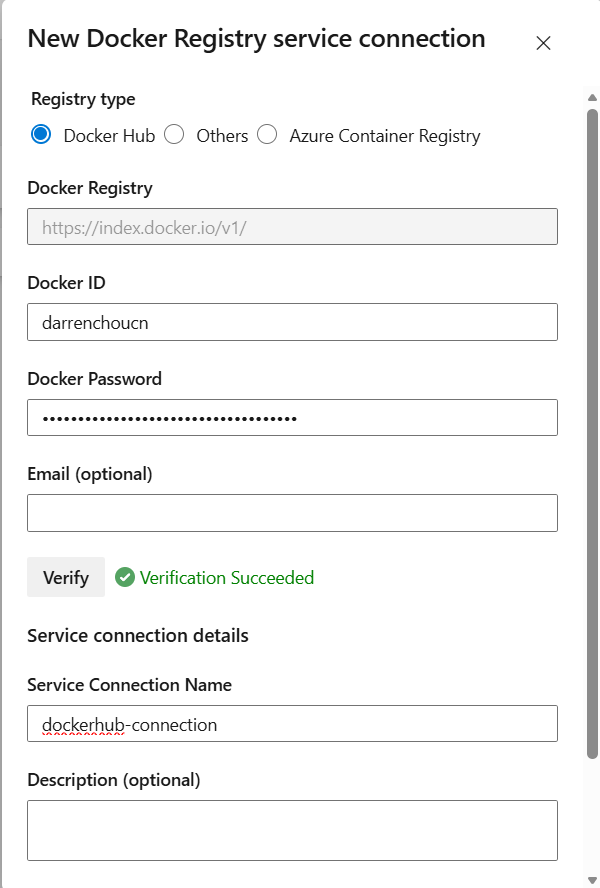
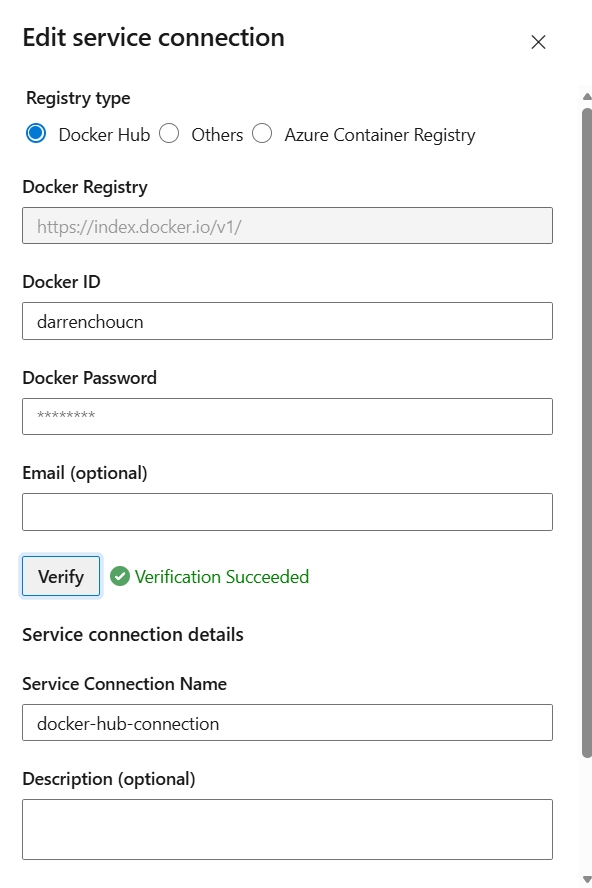
Creating a CI/CD pipeline for Azure Container Apps

diff --git a/azure/01-container-apps-cicd/README.md b/azure/01-container-apps-cicd/README.md
@@ -49,12 +49,88 @@ az ad sp create-for-rbac \
 echo "Saved credentials to: spn-aca-ado.json"
 ```
 
-#### 4. Configure Pipelines
+#### 4. Create Service Connection
 
 _ADO -> Your Project -> Project Settings -> Pipelines -> Service connections -> Create service connection_
 
 **Azure Connection**
+
 ![](images/azure-connection.png)
 
 **Docker Hub Connection**
+
 ![](images/docker-hub-connection.png)
+
+#### 5. Configure Pipelines
+
+```yaml
+trigger:
+  - main
+
+resources:
+  - repo: self
+
+variables:
+  IMAGE_NAME: "darrenchoucn/aca-album-backend-api"
+  CONTAINERAPPS_APP: "ca-cicd-lab-api-dev-ase-001"
+  CONTAINERAPPS_ENVIRONMENT: "acae-cicd-lab-dev-ase-001"
+  RESOURCE_GROUP: "rg-cicd-lab-dev-ase-001"
+  TAG: "$(Build.BuildId)"
+
+stages:
+  - stage: Build
+    displayName: Build and push image
+    jobs:
+      - job: Build
+        displayName: Build
+        pool:
+          vmImage: ubuntu-latest
+        steps:
+          - script: |
+              echo "Sources dir: $(Build.SourcesDirectory)"
+              ls -la $(Build.SourcesDirectory)
+              echo "Find Dockerfile:"
+              find $(Build.SourcesDirectory) -maxdepth 6 -type f -iname "dockerfile" -print
+            displayName: "Debug: locate Dockerfile"
+
+          - task: Docker@2
+            displayName: Build and push image to Docker Hub
+            inputs:
+              containerRegistry: "docker-hub-connection"
+              command: "buildAndPush"
+              dockerfile: "$(Build.SourcesDirectory)/azure/backend_api/backend_api_csharp/Dockerfile"
+              repository: "$(IMAGE_NAME)"
+              tags: |
+                $(TAG)
+
+  - stage: Deploy
+    displayName: Deploy to Container Apps
+    dependsOn: Build
+    jobs:
+      - job: Deploy
+        displayName: Deploy
+        pool:
+          vmImage: ubuntu-latest
+        steps:
+          - task: AzureContainerApps@1
+            displayName: Deploy new container version
+            inputs:
+              azureSubscription: "azure-connection"
+              imageToDeploy: "$(IMAGE_NAME):$(TAG)"
+              containerAppName: "$(CONTAINERAPPS_APP)"
+              resourceGroup: "$(RESOURCE_GROUP)"
+              containerAppEnvironment: "$(CONTAINERAPPS_ENVIRONMENT)"
+              targetPort: "3500"
+              ingress: "external"
+```
+
+#### 6. Confirm Results
+
+**Pipeline**
+![](images/pipelines-result.png)
+
+**Docker Hub**
+![](images/docker-hub-result.png)
+
+**Container App**
+![](images/container-app-result.png)
